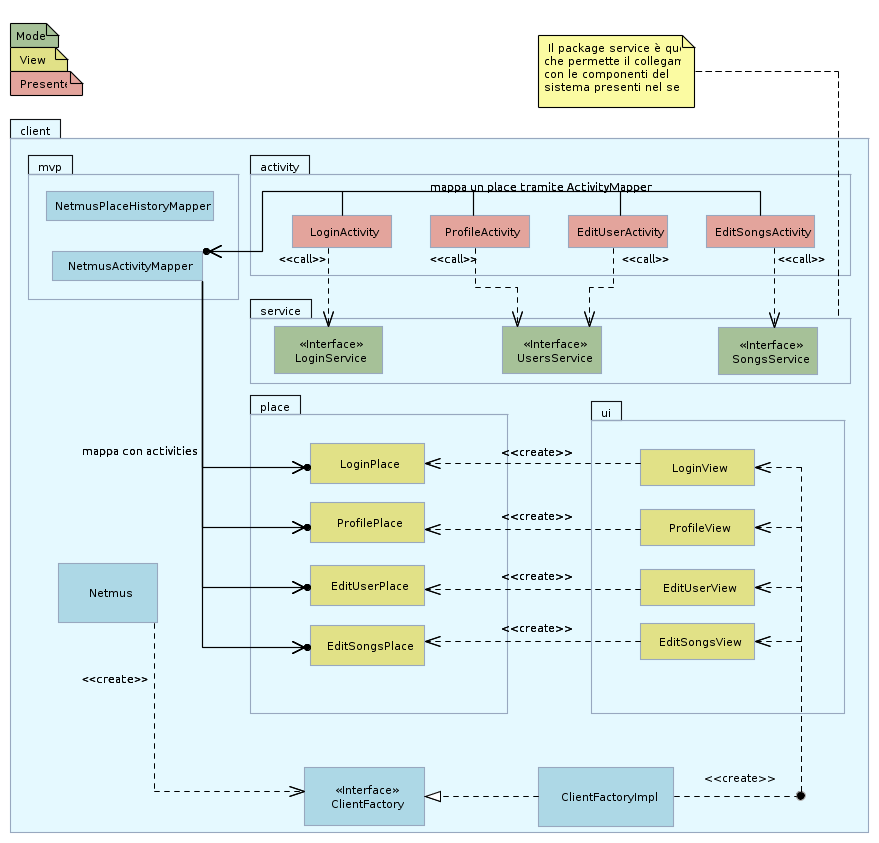
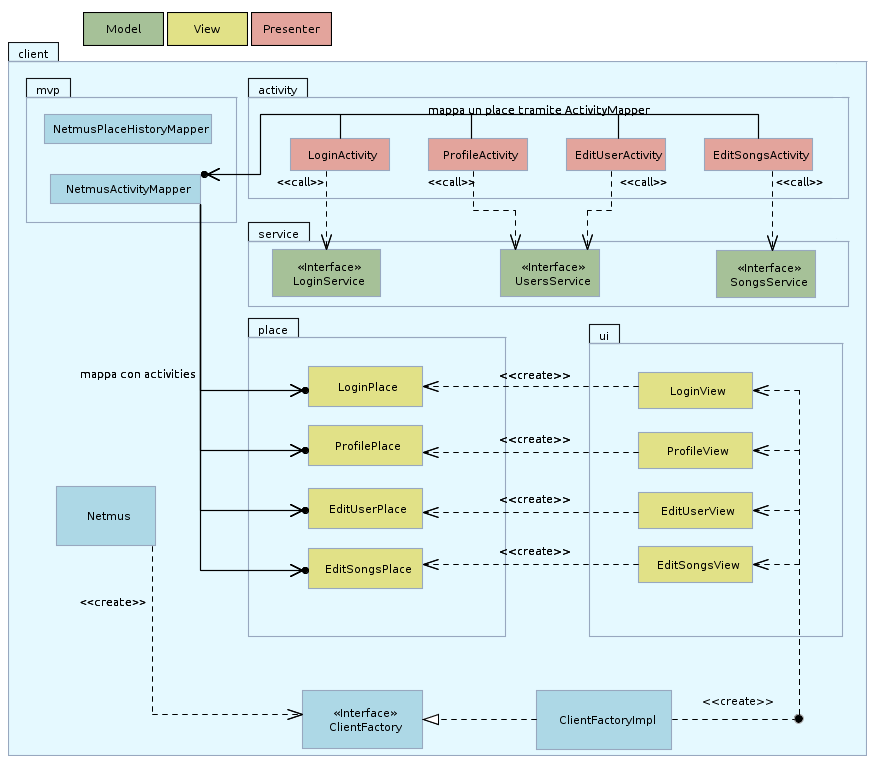
FIX - *.png - Aggiornamento dei grafici delle classi e dei package.

diff --git a/SpecificaTecnica.tex b/SpecificaTecnica.tex
@@ -1,6 +1,6 @@
 
 \newcommand{\nomedoc}{Specifica Tecnica}
-\newcommand{\versione}{0.9}
+\newcommand{\versione}{0.10}
 \newcommand{\versioneglossario}{1.0}
 \newcommand{\versionenormeprogetto}{1.0}
 \newcommand{\nomefile}{SpecificaTecnica-\versione.pdf}
@@ -32,6 +32,10 @@ VT.G \\
 \endhead
 \hline
 \endfoot 
+
+29/01/2011 & 0.10 & Baron Federico & Inseriti i diagrammi delle classi e dei
+package aggiornati.\\
+\hline
 
 29/01/2011 & 0.9 & Caputo Cosimo & Inseriti contenuti package ui, activity,
 places e mvp.\\
@@ -234,8 +238,17 @@ istanza di Persistent manager factory e che questa sia visibile all'intero
 dell'intero lato server del sistema NetMus. 
 
 \newpage
-\subsection{Diagrammi UML dei Package}
-Il sistema Netmus sar\`a principalmente formato dai seguenti package:
+\subsection{Decomposizione architeturale}
+La decomposizione architetturale da noi individuata a partire dalla lista dei
+requisiti prodotta dal processo di analisi si compone di tre moduli
+fondamentali distribuiti su una parte client e una server. Questi tre moduli, in
+accordo con il framework \emph{MVP con Activities e Places} precendetemente
+presentato, sono il model che riguarda le parti di businnes logic e businnes
+data, la view che contiene l'intera parte grafica del sistema (UI) con i
+relativi stati (Places) e il presenter che costituisce il collegamento tra view
+e model attraverso le Activities.
+\\\\
+La struttura sar\`a quindi formata dai seguenti packages:
 \begin{figure}[h]
   \centering
   \includegraphics[width=16cm]{img/ST/PackageGeneric.png}
@@ -246,7 +259,7 @@ Il sistema Netmus sar\`a principalmente formato dai seguenti package:
   \item Package \emph{client} : definisce la parte client del programma
   \begin {itemize}
     \item Package \emph{client.ui} : comprende l'insieme di viste del sistema,
-    rispettando il framework \emph{MVP with Place and Activity}. Ci sar\`a una
+    rispettando il framework \emph{MVP con Places e Activities}. Ci sar\`a una
     interfaccia per ogni vista, per dare la possibilit\`a di creare in futuro
     pi\`u implementazioni differenti a seconda del dispositivo client;
     \item Package \emph{client.activity} : rappresenta l'insieme di classi
@@ -282,15 +295,43 @@ Il sistema Netmus sar\`a principalmente formato dai seguenti package:
   aderiscono al pattern DTO.
 \end{itemize}
 
-\chapter{Descrizione dei singoli componenti}
-\section{Package client}
+\newpage
+\subsubsection{Decomposizione architeturale - lato client}
+Per soddisfare i requisiti funzionali del sistema NetMus sono state individuate
+4 componenti che implementano altrettante UI con la relativa logica di
+attivazione delle Activities. Queste sono Login, User, EditProfile e EditSongs
+che grazie all'interazione tra le loro parti view, place e activity garantiscono
+all'utente tutte le funzionalit\`a attese.\\
+Le interfacce Service invece rappresentano il punto di collegamento con il model
+la cui implementazione \`e sviluppata principalmente lato server. Queste
+interfacce, infatti, vengono accedute dalle Activities poich\'e forniscono tutti i
+metodi riguardanti la businness logic. \\\\ 
+L'intero schema delle classi individuate durante la progettazione \`e il
+sueguente: 
 \begin{figure}[h]
   \centering
   \includegraphics[width=16.5cm]{img/ST/client.png}
 \caption{Diagramma delle classi del package client.}
 \end{figure}
-
 \newpage
+\subsubsection{Decomposizione architeturale - lato server}
+Nella parte server si trovano le implementazioni dei Service che hanno
+la possibilit\`a di accedere alle informazioni presenti nel database grazie alle
+classi DAO presenti nel package \emph{persistent}.
+Grande importanza viene data alle classi presenti nel pakage \emph{shared}
+poich\'e rendono allo stesso tempo semplice ed efficente il passaggio di
+informazioni tra il server e i clients poich\'e incapsulano gli oggetti di
+peristenza DAO rimuovendone la parte logica, rispettando il design pattern DTO.
+\\\\ L'intero schema delle classi
+individuate durante la progettazione \`e il sueguente: \begin{figure}[h]
+  \centering
+  \includegraphics[width=16.5cm]{img/ST/Server&Shared.png}
+\caption{Diagramma delle classi dei packages server e shared.}
+\end{figure}
+
+
+\chapter{Descrizione dei singoli componenti}
+\section{Package client}
 \subsection*{Tipo, obiettivo e funzione del componente} % LASCIARE WARNING
 Il package \emph{client} rappresenta la parte del sistema con la quale l'utente
 pu\`o interagire. Tutte le sue classi ed i suoi sottopackage saranno compilati in
@@ -356,11 +397,14 @@ l'utente prima del passaggio ad uno stato differente.
 Il package \emph{ui} contiene le interfacce e le implementazioni delle View del
 sistema. Le View generano gli ambienti grafici con cui gli utenti possono
 interagire e si occupano di catturare gli eventi da essi prodotti.
+
 \subsection*{Relazioni d'uso di altre componenti}
 Questo package utilizza \emph{place} per creare istanze dei vari Place quando
 richiesto.
+
 \subsection*{Interfacce con e relazioni d'uso da altre componenti}
 Viene utilizzato dal package \emph{activity}.
+
 \subsection*{Attivit\`a svolte e dati trattati}
 In sostanza svolge il compito di organizzare le informazioni del model in un
 interfaccia accessibile dall'utente.
@@ -513,7 +557,6 @@ Questa classe gestisce, assieme a \co{songsService}, le attivit\`a utili alla
 visualizzazione e modifica della libreria musicale personale.
 
 \newpage
-
 \section{Package client.place} % LASCIARE WARNING
 \subsection*{Tipo, obiettivo e funzione del componente}
 Il package contiene le classi di tipo Place. I Place sono indispensabili
@@ -651,12 +694,32 @@ browes con i vari Place.
 \subsection*{Interfacce con e relazioni d'uso da altre componenti}
 \subsection*{Attivit\`a svolte e dati trattati}
 %------------------------------------------------------
+
 \newpage
-\section{Package server} % LASCIARE WARNING
-\subsection*{Tipo, obiettivo e funzione del componente}
+\section{Package server}
+\begin{figure}[h]
+  \centering
+  \includegraphics[width=10cm]{img/ST/Server.png}
+\caption{Diagramma delle classi del package client.}
+\end{figure}
+
+\subsection*{Tipo, obiettivo e funzione del componente} % LASCIARE WARNING
+Questo package racchiude tutte le classi che collaborano al fine di gestire la
+businness logic del sistema ovvero tutte quelle operazioni che potranno essere
+compiute sui dati raccolti. Contiene inoltre delle classi di interfacciamento
+con il databse stesso che consentono il controllo sulla persistenza dei dati.
+
 \subsection*{Relazioni d'uso di altre componenti}
+Si fa utilizzo delle classi presenti nel package \emph{shared} in cui vengono
+incapsulati tutti i dati in uscita del server.
+
 \subsection*{Interfacce con e relazioni d'uso da altre componenti}
+Il package \emph{server} si interfaccia direttamente con \emph{shared} e tramite
+questo e con la presenza del package \emph{service} si interfaccia anche con
+\emph{client}.
+
 \subsection*{Attivit\`a svolte e dati trattati}
+Le attivit\`a svolte dalle sue classi verranno qui di seguito descritte.
 
 \subsection{Classe SongsServiceImpl}
 \subsubsection*{Tipo, obiettivo e funzione del componente}
@@ -695,13 +758,19 @@ browes con i vari Place.
 \subsection*{Interfacce con e relazioni d'uso da altre componenti}
 \subsection*{Attivit\`a svolte e dati trattati}
 
-\subsection{Classe User (da decidere nomi e tipi di DAO)}
+\subsection{Classe UserAccount}
 \subsubsection*{Tipo, obiettivo e funzione del componente}
 \subsubsection*{Relazioni d'uso di altre componenti}
 \subsubsection*{Interfacce con e relazioni d'uso da altre componenti}
 \subsubsection*{Attivit\`a svolte e dati trattati}
 
-\subsection{Classe . . . . (da decidere nomi e tipi di DAO)}
+\subsection{Classe MusicLibrary}
+\subsubsection*{Tipo, obiettivo e funzione del componente}
+\subsubsection*{Relazioni d'uso di altre componenti}
+\subsubsection*{Interfacce con e relazioni d'uso da altre componenti}
+\subsubsection*{Attivit\`a svolte e dati trattati}
+
+\subsection{Classe Song}
 \subsubsection*{Tipo, obiettivo e funzione del componente}
 \subsubsection*{Relazioni d'uso di altre componenti}
 \subsubsection*{Interfacce con e relazioni d'uso da altre componenti}
@@ -771,6 +840,11 @@ browes con i vari Place.
 
 \newpage
 \section{Package shared} % LASCIARE WARNING
+\begin{figure}[h]
+  \centering
+  \includegraphics[width=7cm]{img/ST/Shared.png}
+\caption{Diagramma delle classi del package client.}
+\end{figure}
 \subsection*{Tipo, obiettivo e funzione del componente}
 Il package \textit{shared} contiene le classi degli oggetti che vengono
 scambiati tra client e server; in particolare, troviamo presenti le classi che
@@ -798,7 +872,7 @@ Viene implementata dalle classi del package \textit{shared}.
 \subsubsection*{Attivit\`a svolte e dati trattati}
 Nessuna. 
 
-\subsection{Classe UserDTO}
+\subsection{Classe UserSummaryDTO}
 \subsubsection*{Tipo, obiettivo e funzione del componente}
 Contiene e rappresenta i dati pi\`u comunemente utilizzati di un utente, ovvero
 quelli che vengono visualizzati in un profilo.
@@ -810,12 +884,12 @@ Vedere la descrizione del package.
 Funge da contenitore per i dati pi\`u comunemente utilizzati dell'utente, come
 per esempio nick ed email.
 
-\subsection{Classe RegistrationDTO}
+\subsection{Classe UserDTO}
 \subsubsection*{Tipo, obiettivo e funzione del componente}
 Contiene e rappresenta la maggior parte dei dati di un utente, pi\`u
 precisamente quelli richiesti alla registrazione.
 \subsubsection*{Relazioni d'uso di altre componenti}
-Estende la classe \textit{UserDTO}.
+Estende la classe \textit{UserSummaryDTO}.
 \subsubsection*{Interfacce con e relazioni d'uso da altre componenti}
 Vedere la descrizione del package.
 \subsubsection*{Attivit\`a svolte e dati trattati}
@@ -826,14 +900,14 @@ Funge da contenitore per i dati dettagliati di un utente.
 Contiene e rappresenta tutti i dati di un utente, a partire da quelli
 visualizzati sul profilo, a quelli interni del sistema.
 \subsubsection*{Relazioni d'uso di altre componenti}
-Estende la classe \textit{RegistrationDTO}.
+Estende la classe \textit{UserDTO}.
 \subsubsection*{Interfacce con e relazioni d'uso da altre componenti}
 Vedere la descrizione del package.
 \subsubsection*{Attivit\`a svolte e dati trattati}
 Funge da contenitore per tutti dati dell'utente, dal nick al numero di
 registrazione.
 
-\subsection{Classe SongDTO}
+\subsection{Classe SongSummaryDTO}
 \subsubsection*{Tipo, obiettivo e funzione del componente}
 Contiene e rappresenta i dati pi\`u comunemente utilizzati di un brano, ovvero
 quelli che vengono visualizzati in una playlist all'interno di un profilo.
@@ -845,12 +919,12 @@ Vedere la descrizione del package.
 Funge da contenitore per i dati pi\`u comunemente utilizzati di un brano, come
 per esempio titolo ed autore.
 
-\subsection{Classe SongCompleteDTO}
+\subsection{Classe SongDTO}
 \subsubsection*{Tipo, obiettivo e funzione del componente}
 Contiene e rappresenta tutti i dati di un brano, compresi quelli interni del
 sistema. 
 \subsubsection*{Relazioni d'uso di altre componenti}
-Estende la classe \textit{SongDTO}.
+Estende la classe \textit{SongSummaryDTO}.
 \subsubsection*{Interfacce con e relazioni d'uso da altre componenti}
 Vedere la descrizione del package.
 \subsubsection*{Attivit\`a svolte e dati trattati}
@@ -865,7 +939,13 @@ Implementa l'interfaccia \textit{GenericDTO}.
 \subsubsection*{Interfacce con e relazioni d'uso da altre componenti}
 Vedere la descrizione del package.
 \subsubsection*{Attivit\`a svolte e dati trattati}
-Trasporta nome utente e password dal client al server per l'autenticazione.
+Trasporta nome utente e passwsord dal client al server per l'autenticazione.
+
+\subsection{Classe MusicLibraryDTO}
+\subsubsection*{Tipo, obiettivo e funzione del componente}
+\subsubsection*{Relazioni d'uso di altre componenti}
+\subsubsection*{Interfacce con e relazioni d'uso da altre componenti}
+\subsubsection*{Attivit\`a svolte e dati trattati}
 
 \subsection{Classe NetMusException}
 \subsubsection*{Tipo, obiettivo e funzione del componente}
